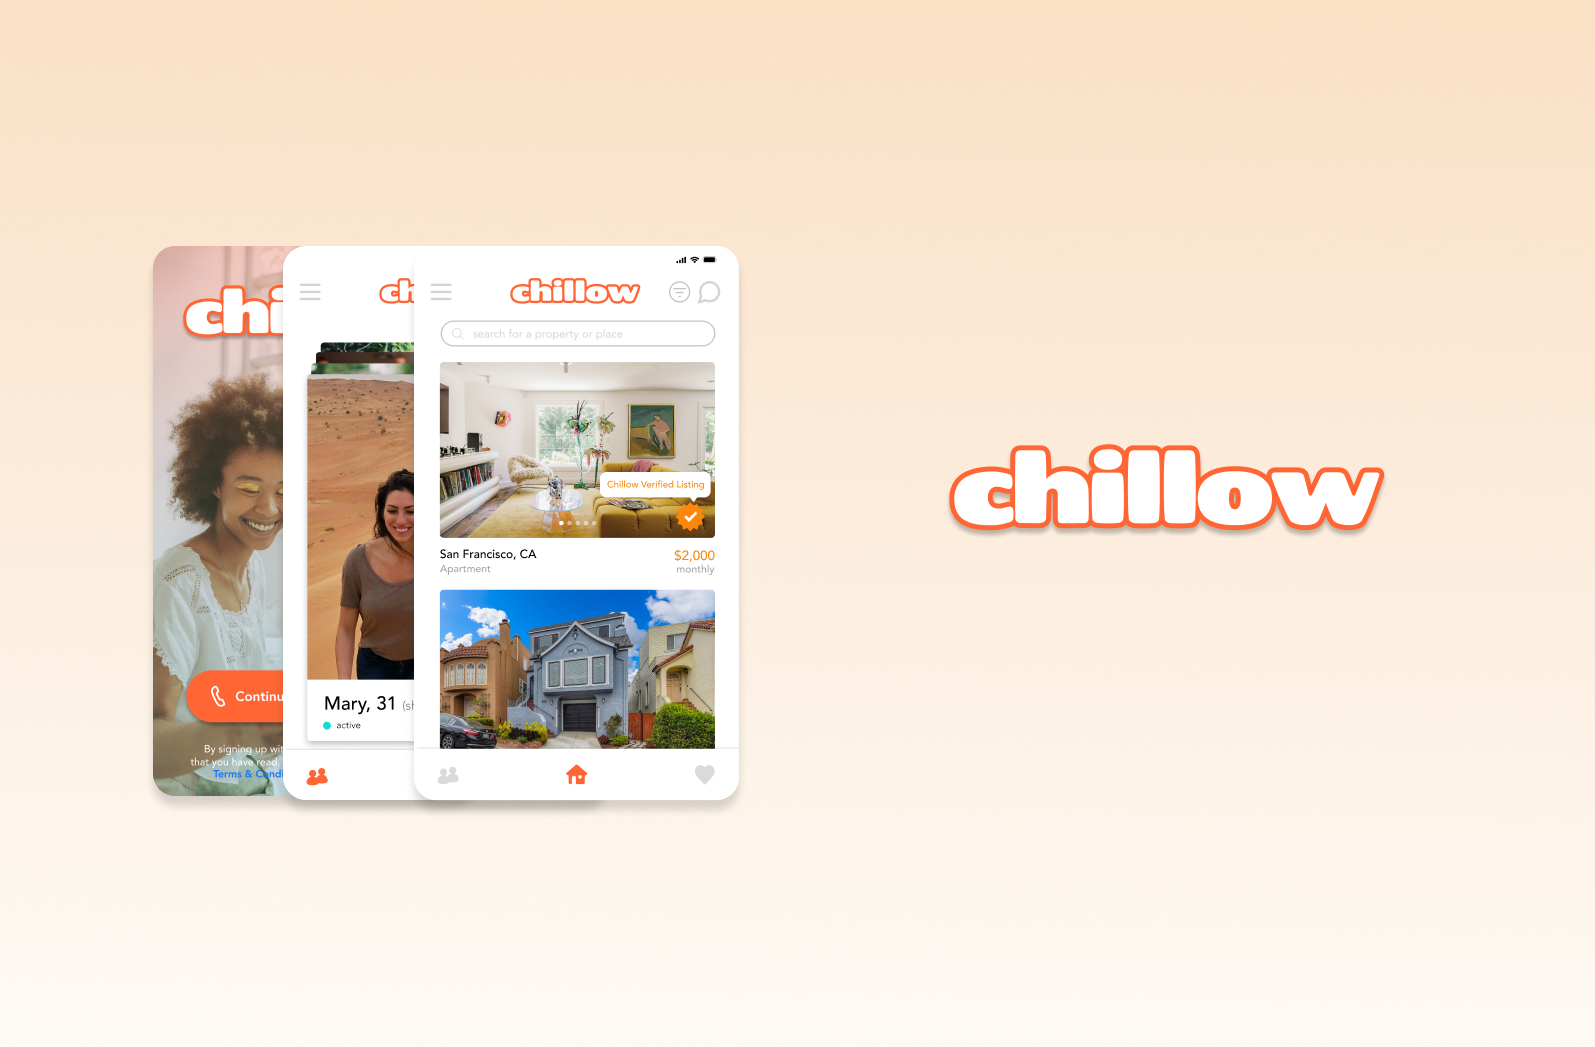
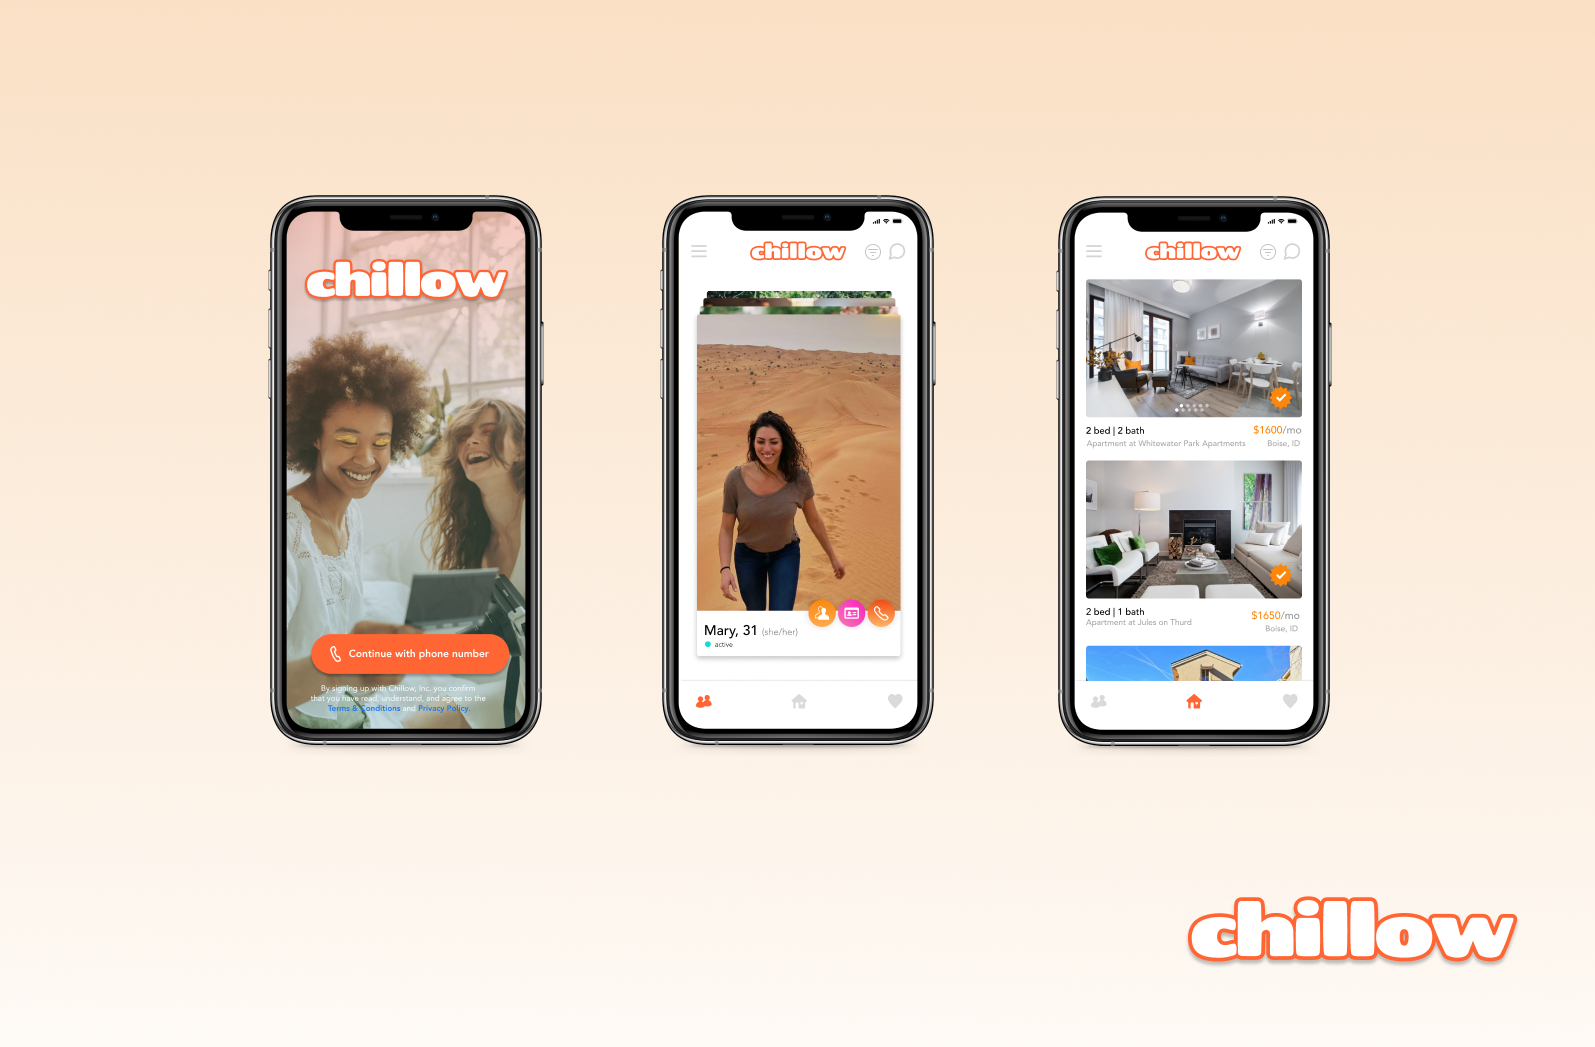
updated chillow images

diff --git a/chillow.html b/chillow.html
@@ -42,8 +42,10 @@
     <div class="fade-in-bottom">
         <img class="proj-cover " src="assets\Chillow\Chillow Cover.png" alt="Chillow cover image">
 
-        <h2 class="proj-title ">Chillow</h2>
-        <p class="proj-opener proj-text">We improved Chillow's sign up and navigation for a better app experience.</p>
+        <h2 class="proj-title ">Chillow App</h2>
+        <p class="proj-opener proj-text"><span style="background-color:var(--accent-lighter);">We updated Chillow's sign up and navigation</span>, improving accessibility, usability, and user retention.
+            
+            </p>
 
         <div class="proj-details ">
             <div class="proj-tri-column">
@@ -121,8 +123,8 @@
                 </p>
 
                 <p class="proj-text"> 
-                    The colors and heading fonts were also updated for readability. This gave the app a more polished look that was cohesive with the brand colors. 
-                    The heading was also updated, renaming the process from "Profile" to "Create Account" and changing the button from "Save" to "Continue".
+                    The colors and heading fonts were also updated for readability. Button text was updated to give users a better idea of their progress. Overall, the changes not only gave the app a more cohesive look, it also allowed users to quickly
+                    access Chillow's core features. 
 
                 </p>
             </div>
@@ -141,13 +143,13 @@
             
             <div class="proj-subsection">
                 <p class="proj-text"> 
-                    Working with a team that had little to no UX background, I learned to be a strong user advocate. To do this,
-                    I utilized data, such as WCAG standards and user feedback to drive my ideas. I got buy-in for usability testing and led the entire
-                    process, which included creating a user research plan, highlighting success metrics, and gathering participants. 
+                    With buy-in from my team, I led the entire usability testing process, which included creating a user research plan,
+                    definining success metrics, gathering participants, and testing.
+                    
                 </p>
 
                 <p class="proj-text"> 
-                    I conducted 15 user testing sessions with participants using Zoom and prototyped designs on Figma. KPIs that were tracked
+                    I conducted 15 user testing sessions with participants using Zoom and Figma prototypes. KPIs that were tracked
                     during the process include time on task, user satisfaction rate, and task success rate. I compiled notes from each session
                     to find patterns, which were synthesized into recommended improvements that I presented to my team. 
                 </p>

diff --git a/index.html b/index.html
@@ -72,8 +72,8 @@
           </div>
 
           <div class="project-desc">
-            <h3> <span style="color: var(--accent);">&mdash;</span> Chillow</h3>
-            <p class="project-pill">mobile</p> 
+            <h3> <span style="color: var(--accent);">&mdash;</span> Chillow App</h3>
+            <p class="project-pill">mobile</p> <p class="project-pill">B2B2C</p> 
             <p> An iOS and Android compatible mobile app matching users with potential roommates and properties for rent.</p>
             <br>
             <p> read more &rarr;</p>
